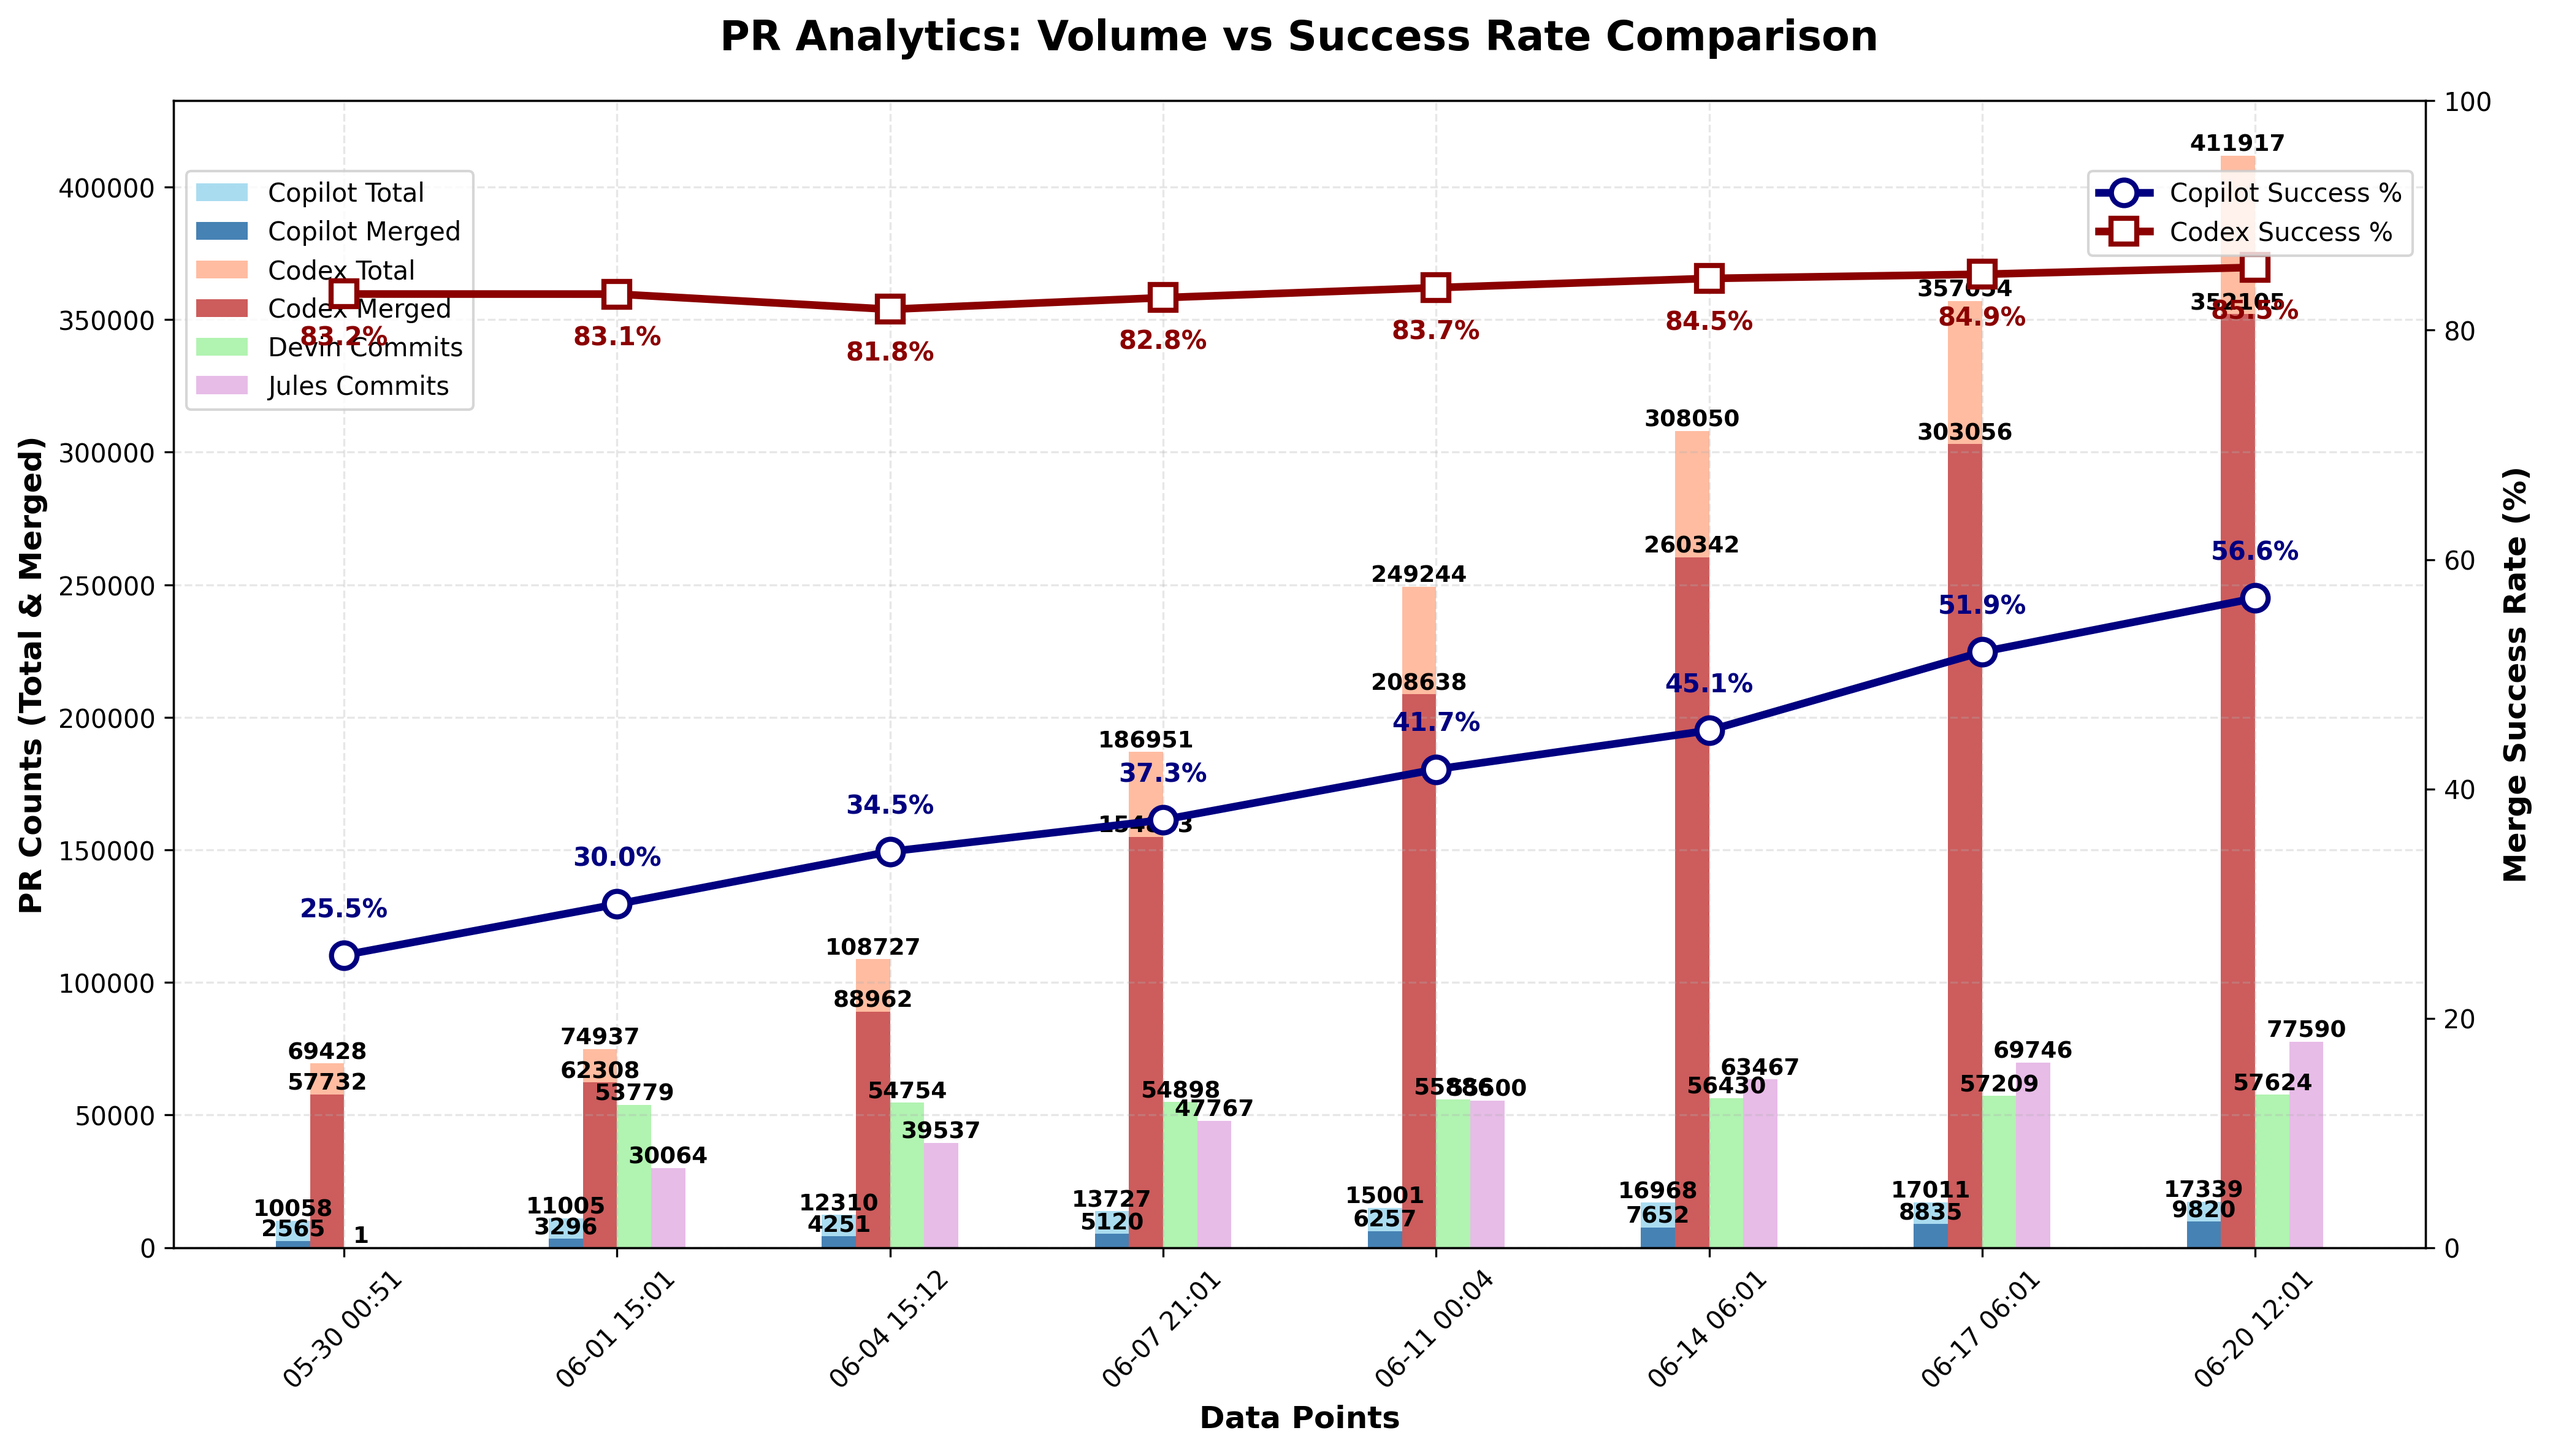
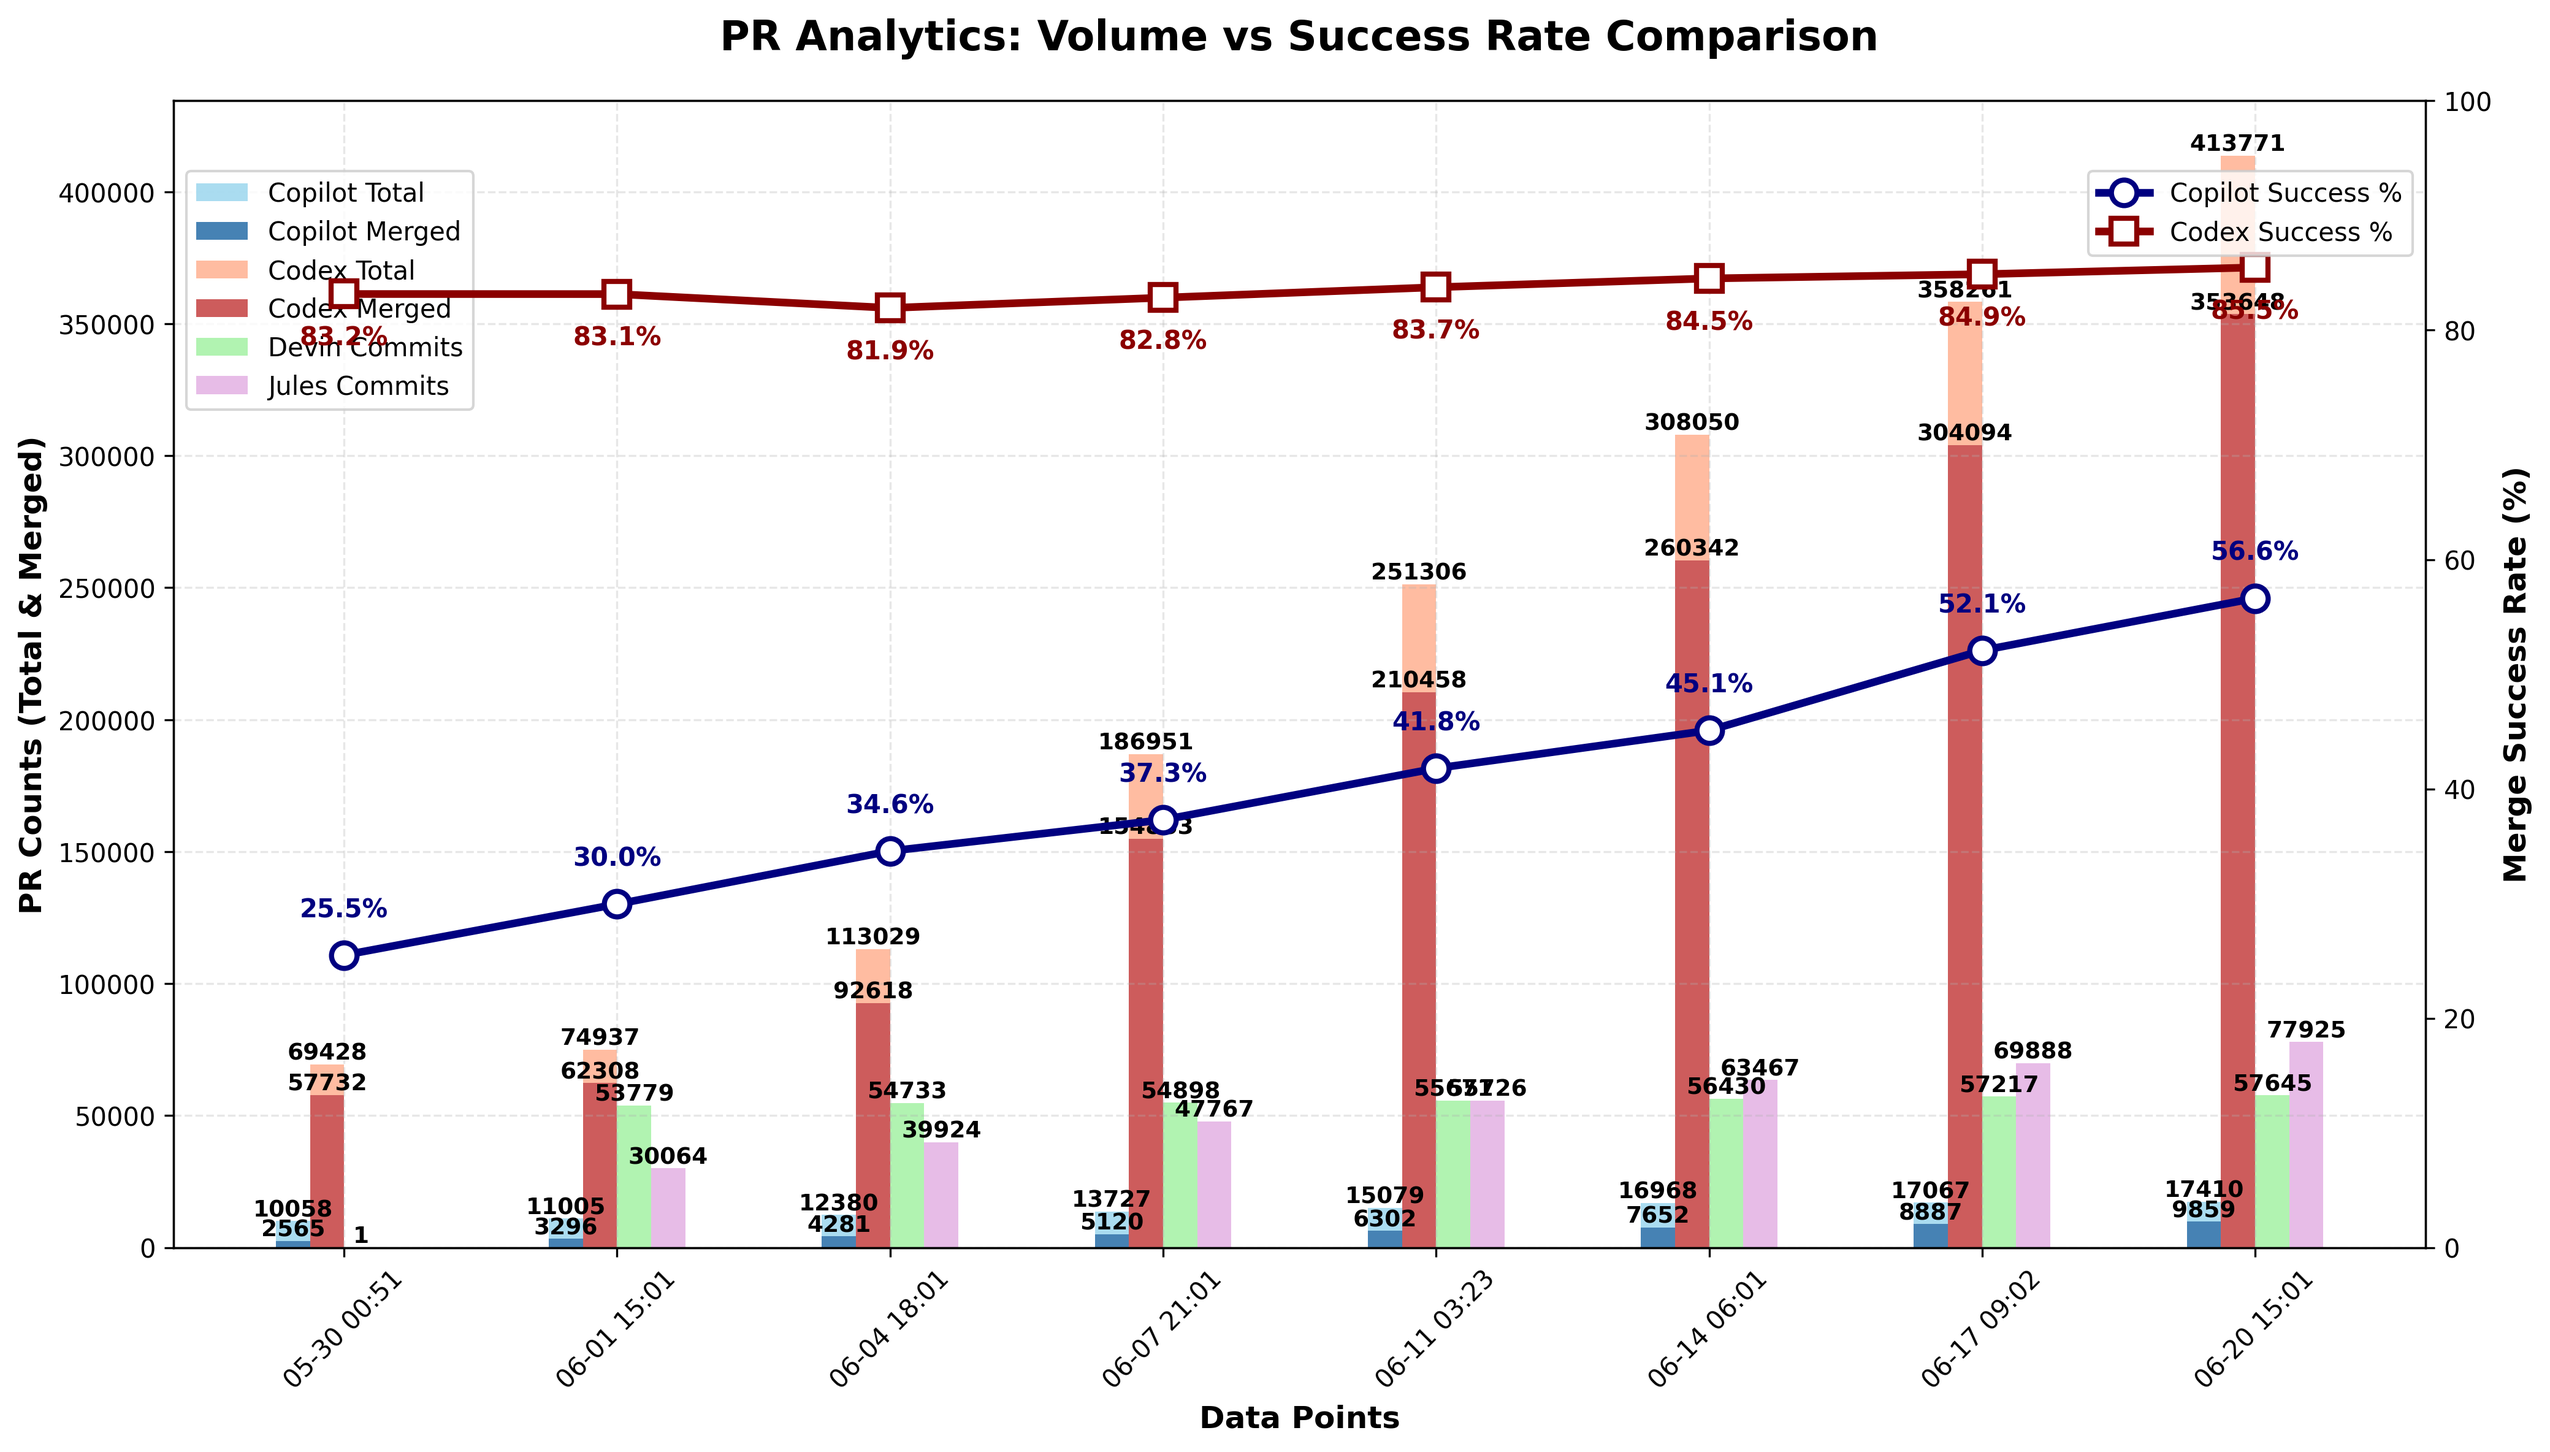
chore: update PR‑approval chart

diff --git a/docs/index.html b/docs/index.html
@@ -219,6 +219,7 @@
                         <td>N/A</td>
                         <td>N/A</td>
                         <td>N/A</td>
+                        <td>N/A</td>
                     </tr>
                     <tr>
                         <td>Codex</td>
@@ -396,27 +397,28 @@
                         <td>N/A</td>
                         <td>N/A</td>
                         <td>N/A</td>
+                        <td>N/A</td>
                     </tr>
                 <tr>
                         <td>Devin</td>
                         <td>N/A</td>
                         <td>N/A</td>
                         <td>N/A</td>
-                        <td>57,624</td>
+                        <td>57,645</td>
                     </tr>
                     <tr>
                         <td>Jules</td>
                         <td>N/A</td>
                         <td>N/A</td>
                         <td>N/A</td>
-                        <td>77,590</td>
+                        <td>77,925</td>
                     </tr>
                     </tbody>
             </table>
         </section>
 
         <footer>
-            <p>Last updated: <span id="last-updated">June 20, 2025 12:02 UTC</span></p>
+            <p>Last updated: <span id="last-updated">June 20, 2025 15:01 UTC</span></p>
             <p><a href="https://github.com/aavetis/ai-pr-watcher">View on GitHub</a></p>
         </footer>
     </div>

diff --git a/README.md b/README.md
@@ -19,7 +19,7 @@ Explore the GitHub search queries used:
 
 | Service | Total PRs | Merged PRs | Merge Rate | Total Commits |
 | ------- | --------- | ---------- | ---------- | ------------- |
-| Copilot | 17,339 | 9,820 | 56.64% | N/A           |
-| Codex   | 411,917 | 352,105 | 85.48% | N/A           |
-| Devin   | N/A       | N/A        | N/A        | 57,624 |
-| Jules   | N/A       | N/A        | N/A        | 77,590 |
+| Copilot | 17,410 | 9,859 | 56.63% | N/A           |
+| Codex   | 413,771 | 353,648 | 85.47% | N/A           |
+| Devin   | N/A       | N/A        | N/A        | 57,645 |
+| Jules   | N/A       | N/A        | N/A        | 77,925 |
